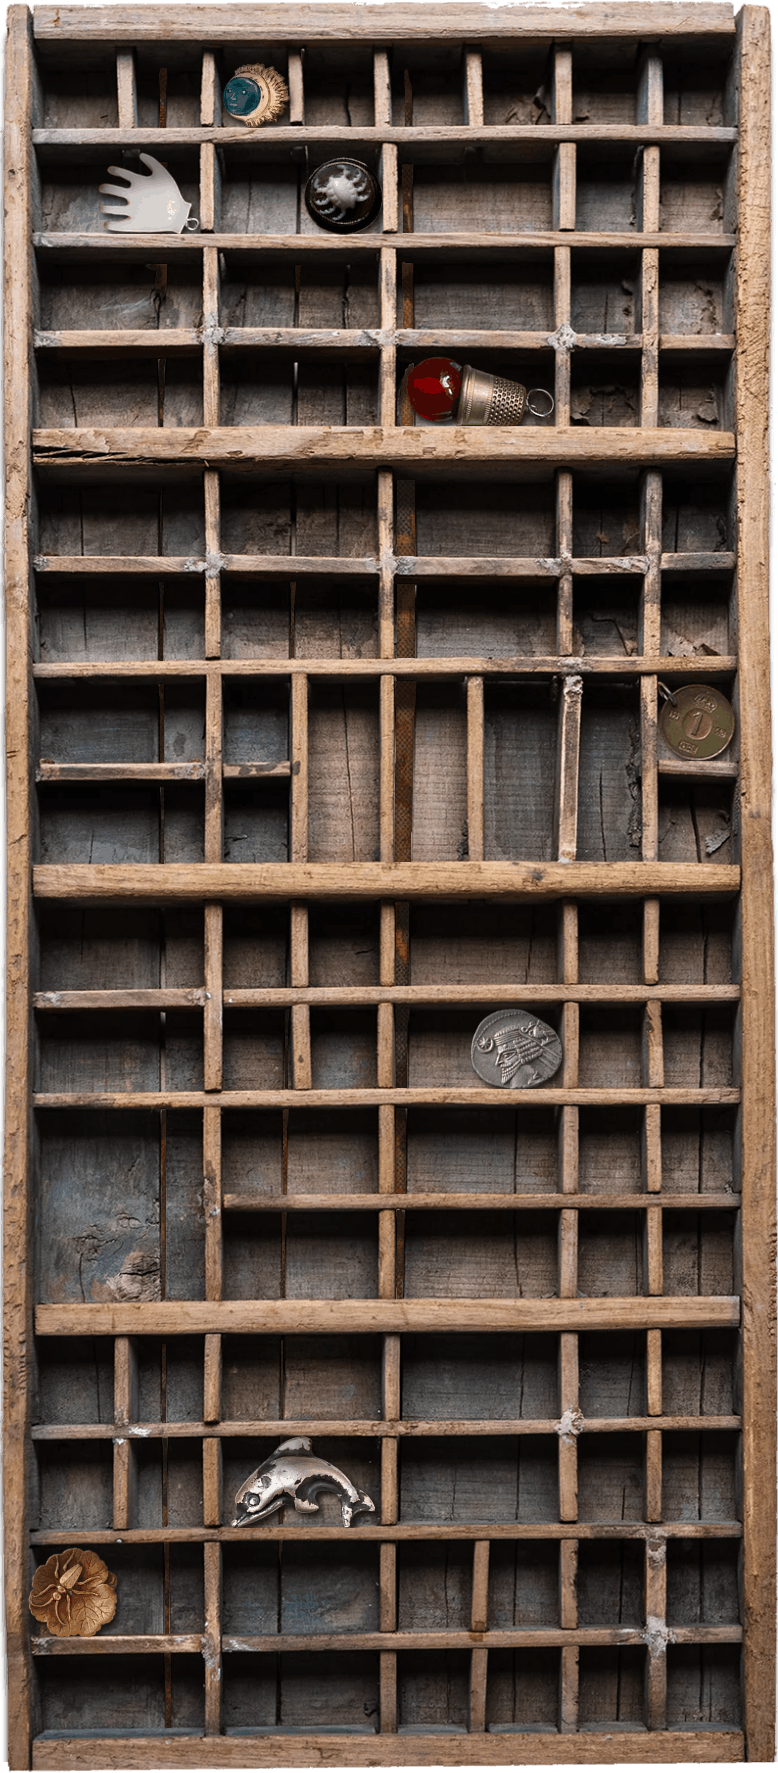
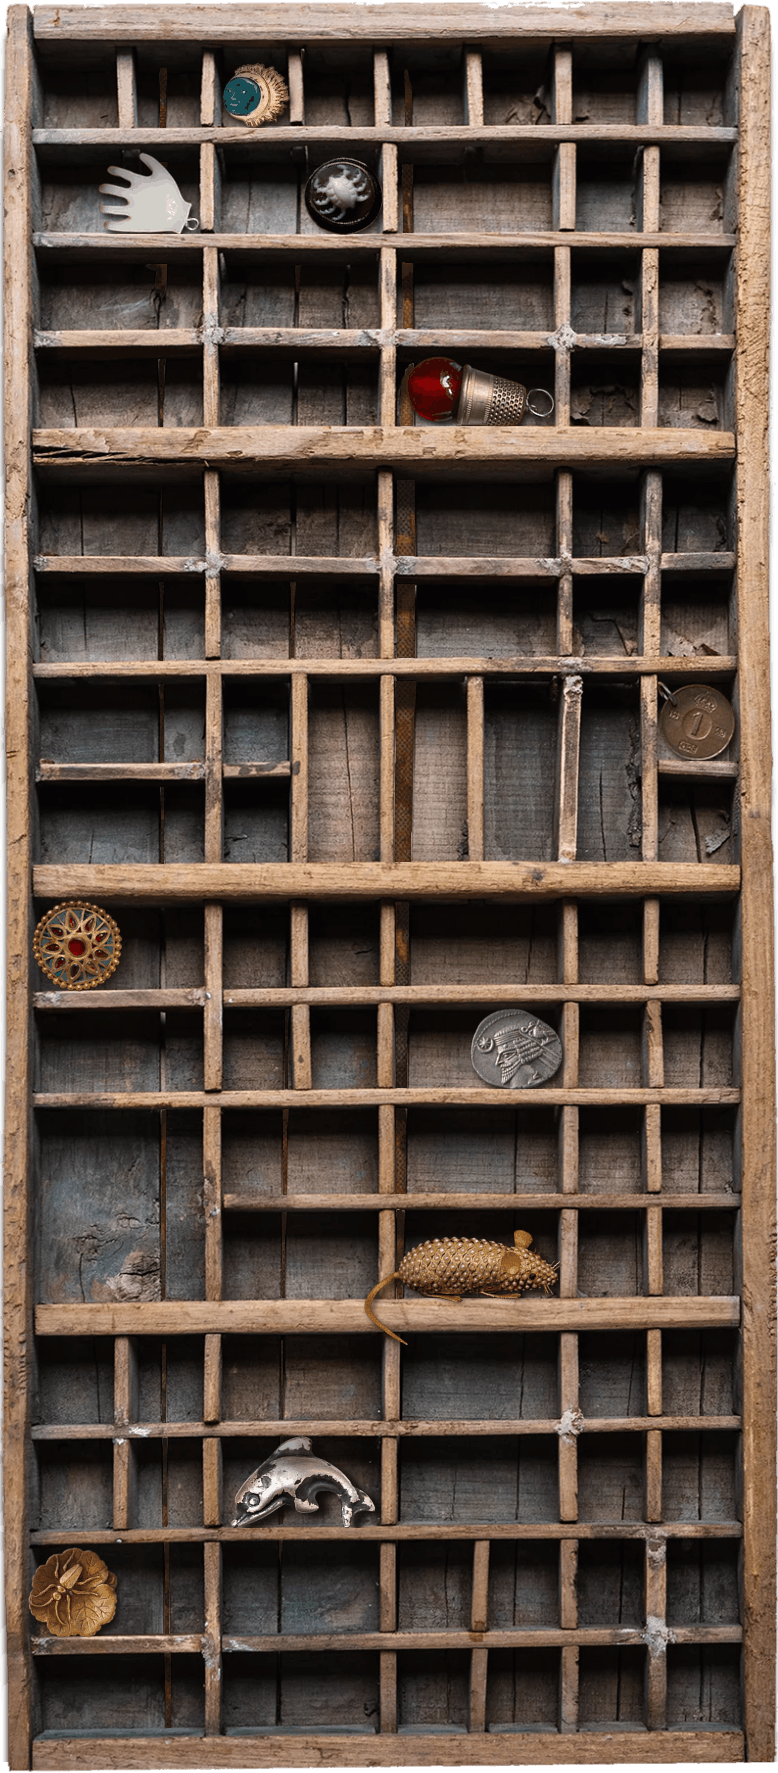
new trinkets, fixed mag glass start bg
so the initial magnifying glass displays the correct background for its starting position.

diff --git a/codecreature.net/trinkets/index.html b/codecreature.net/trinkets/index.html
@@ -55,15 +55,20 @@
 			</div>
 			
 			<img src="images/tapestry_floral_green.png" alt="" style="rotate: 5deg; left: 27px; top: 635px;">
-			<img src="images/tapestry_floral_red.png" alt="" style="rotate: -4deg; left: 1393px; top: 550px;">
+			<img src="images/tapestry_floral_red.png" alt="" style="rotate: -4deg; left: 1393px; top: 580px;">
 			
 			<div id="shadow-box" class="img-magnifier-container">
 				<img id="shadow-box-img" src="images/shadow_box.png" alt="" width="457" height="1041">
 			</div>
 			<script>
 				/* Execute the magnify function: */
-				magnify("shadow-box-img", 2);
+				magnify("shadow-box-img", 2.5);
 			</script> 
+			
+			<!-- gold sun rays window -->
+			<div class="wrapper" style="left: 1456px; top: 353px;"><div class="window window-20 window-round">
+				<img src="images/sun_window.png" alt="">
+			</div></div>
 			
 			<img src="images/bug_pearls.png" alt="" style="top: 594px; left: 461px;">
 			
@@ -73,7 +78,7 @@
 			<img src="images/thorn_hand.png" alt="" style="left: 817px; top: 149px;">
 			<img src="images/star_goose.png" alt="" style="left: -63px; top: 1307px;">
 			<img src="images/toad_freak.png" alt="" style="left: 855px; top: 539px;">
-			<img src="images/bug_paper_dolls.png" alt="" style="left: 100px; top: 1722px;">
+			<img src="images/bug_paper_dolls.png" alt="" style="left: 992px; top: 1900px;">
 			<img src="images/kill_that_fly.png" alt="" style="left: 675px; top: 780px;">
 			<img src="images/unicorn_shield.png" alt="" style="left: 648px; top: 149px;">
 			<img src="images/medieval_harpy.png" alt="" style="left: 1395px; top: 39px;">
@@ -87,14 +92,16 @@
 			</button>
 			
 			<!-- gold rectangle window -->
-			<div class="window window-80" style="left: 1547px; top: 1252px;">
+			<div class="wrapper" style="left: 1547px; top: 1252px;"><div class="window window-80">
 				<img src="images/gold_frame.png" alt="">
-			</div>
+			</div></div>
 			<img src="images/ceramic_cat.png" alt="" style="left: 1661px; top: 1377px;">
 			
-			<img src="images/ivory_ring.png" alt="" style="left: 1767px; top: 1088px;">
+			<img src="images/skeleton_gaze.png" alt="" style="left: 1911px; top: 962px;">
+			<img src="images/ivory_ring.png" alt="" style="left: 1739px; top: 1111px;">
 			<img src="images/bead_red_swirl.png" alt="" style="left: 754px; top: 464px;">
 			
+			<!-- round pearl painted eye brooch -->
 			<button style="left: 1480px;top: 1570px;">
 				<img src="images/pearl_eye_left.png" alt="" style="border-radius: 50%;">
 				<img class="hover-hide" src="images/pearl_eye.png" alt="" style="border-radius: 50%;">
@@ -104,7 +111,8 @@
 			<img src="images/hedgehog_shaker.png" alt="" style="left: 1417px; top: 1747px;">
 			<img src="images/green_orb.png" alt="" style="left: 1865px; top: 1511px;">
 			
-			<div class="spoons" style="left: 1820px; top: 47px;">
+			<!-- spoons stack -->
+			<div class="spoons" style="left: 1806px; top: 35px;">
 				<img src="images/spoon_3.png" alt="">
 				<img src="images/spoon_2.png" alt="">
 				<img src="images/spoon_1.png" alt="">
@@ -113,8 +121,10 @@
 			<img src="images/lily_perfume.png" alt="" style="left: 808px; top: 364px;">
 			<img src="images/fat_caterpillar.png" alt="" style="rotate: 10deg; left: 1789px; top: 1805px;">
 			<img src="images/centiworm.png" alt="" style="left: 799px; top: 976px;">
-			<img src="images/gem_snake.png" alt="" style="left: 1869px; top: 465px;">
+			<img src="images/gem_snake.png" alt="" style="left: 1877px; top: 210px; rotate: 7deg;">
 			<img src="images/dark_cicada.png" alt="" style="left: 1642px; top: 901px; rotate: -23deg;">
+			
+			<img src="images/ornate_ship.png" alt="" style="left: 1526px; top: 1650px;">
 			
 			<!-- EGG DOLL -->
 			<button style="rotate: 15deg; left: 480px; top: 1023px;">
@@ -123,7 +133,7 @@
 			</button>
 			
 			<!-- FINGER POT -->
-			<div class="pot" style="left: 680px; top: 1640px;">
+			<div class="pot" style="left: 666px; top: 1676px;">
 				<img class="back" src="images/finger_pot_back.png" alt="">
 				<div class="contents"><div class="content-wrapper">
 					<img src="images/taxidermy_rat.png" alt="">
@@ -168,7 +178,7 @@
 				<img class="top" src="images/eye_bead_top.png" alt="">
 			</div>
 			<!-- top right eye -->
-			<div class="eye-wrapper" style="rotate:15deg;left: 1945px; top: 425px;">
+			<div class="eye-wrapper" style="rotate:15deg;left: 1945px; top: 187px;">
 				<img class="bottom" src="images/eye_bead_bottom.png" alt="">
 				<img class="pupil" src="images/eye_bead_center.png" alt="">
 				<img class="top" src="images/eye_bead_top.png" alt="">
@@ -177,11 +187,11 @@
 			<script src="follow-eye.js?fileversion=20251216"></script>
 			
 			<!-- WINDOW FRAMES -->
-			<div class="window window-50 window-round" style="left: -50px; top: 590px; border-radius: 50%; overflow: hidden;">
+			<div class="wrapper" style="left: -50px; top: 930px; border-radius: 50%;"><div class="window window-50 window-round" style="overflow: hidden;">
 				<img class="outer" id="medieval-frame-rotate" src="images/medieval_frame_outer.png" alt=""
 					style="pointer-events: initial; transform: rotate(0deg);">
 				<img class="inner" src="images/medieval_frame_inner.png" alt="">
-			</div>
+			</div></div>
 			<!-- rotate medieval frame outer part on hover -->
 			<script>
 				(()=>{

diff --git a/codecreature.net/trinkets/trinkets.css b/codecreature.net/trinkets/trinkets.css
@@ -1,3 +1,8 @@
+:root {
+	--page-width: 1920px;
+	--page-height: 1800px;
+}
+
 body, html {
 	width: 100%; height: 100%;
 	margin: 0;
@@ -77,15 +82,13 @@ main {
 }
 
 .corner {
-	--width: 1920px;
-	--height: 1700px;
 	position: absolute;
 	z-index: 999;
 }
 #top-left-marker { top: 0px; left: 0px; }
-#top-right-marker { top: 0px; left: var(--width); rotate: 90deg }
-#bottom-right-marker { top: var(--height); left: var(--width); rotate: 180deg }
-#bottom-left-marker { top: var(--height); left: 0px; rotate: -90deg }
+#top-right-marker { top: 0px; left: var(--page-width); rotate: 90deg }
+#bottom-right-marker { top: var(--page-height); left: var(--page-width); rotate: 180deg }
+#bottom-left-marker { top: var(--page-height); left: 0px; rotate: -90deg }
 
 .stamp {
 	filter: drop-shadow(1px 1px 2px #21120c77);
@@ -103,8 +106,8 @@ main {
 		/*Set the size of the magnifier glass:*/
 		width: 200px;
 		aspect-ratio: 1;
-		left: -50px;
-		top: 470px;
+		left: -57px;
+		top: 453px;
 		img {
 			cursor: initial;
 			rotate: 35deg;
@@ -133,6 +136,7 @@ main:after {
 }
 
 /* window background image */
+.wrapper:has(> .window) { position: absolute; }
 .window {
 	position: relative;
 	pointer-events: none;
@@ -161,6 +165,9 @@ main:after {
 .window.window-70:before { width: 70%; height: 70%; top: 15%; left: 15%; }
 .window.window-60:before { width: 60%; height: 60%; top: 20%; left: 20%; }
 .window.window-50:before { width: 50%; height: 50%; top: 25%; left: 25%; }
+.window.window-40:before { width: 40%; height: 40%; top: 30%; left: 30%; }
+.window.window-30:before { width: 30%; height: 30%; top: 35%; left: 35%; }
+.window.window-20:before { width: 20%; height: 20%; top: 40%; left: 40%; }
 .window.window-round:before { border-radius: 50%; }
 
 #medieval-frame-rotate { transition: transform 1s; }
@@ -186,7 +193,6 @@ main img, nav a, nav button {
 
 .pot {
 	position: absolute;
-	z-index: 1;
 	width: fit-content;
 	.front { border-radius: 46%; width: 80%; left: 12%; }
 	.front img { left: -15%; }
@@ -227,7 +233,7 @@ button:active .hover-hide, button:focus-visible .hover-hide, button:focus .hover
 
 .book { z-index: 1; }
 
-.spoons { position: absolute; }
+.spoons { position: absolute; z-index: 2; }
 .spoons * {
 	top: 0;
 	left: 0;

diff --git a/codecreature.net/trinkets/magnifying-glass.js b/codecreature.net/trinkets/magnifying-glass.js
@@ -21,6 +21,16 @@ function magnify(imgID, zoom) {
   bw = 3;
   w = glass.offsetWidth / 2;
   h = glass.offsetHeight / 2;
+	
+	// set initial background position
+	(()=>{
+		let computedStyle = window.getComputedStyle(glass);
+		let left = Number(computedStyle.getPropertyValue("left").replaceAll("px",""));
+		left = (-1 * left * zoom) - w - 53;
+		let top = Number(computedStyle.getPropertyValue("top").replaceAll("px",""));
+		top = (-1 * top * zoom) - h - 53;
+		glass.style.backgroundPosition = left + "px " + top + "px";
+	})();
 
   /* Execute a function when someone moves the magnifier glass over the image: */
   glass.addEventListener("mousemove", moveMagnifier);
